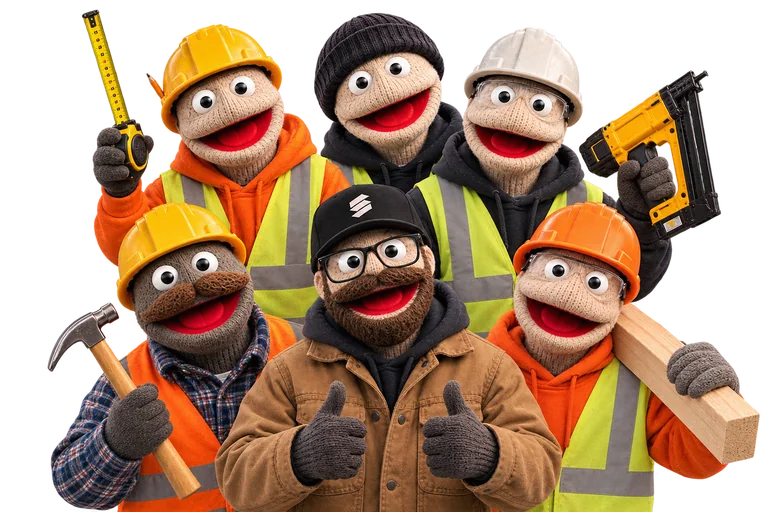
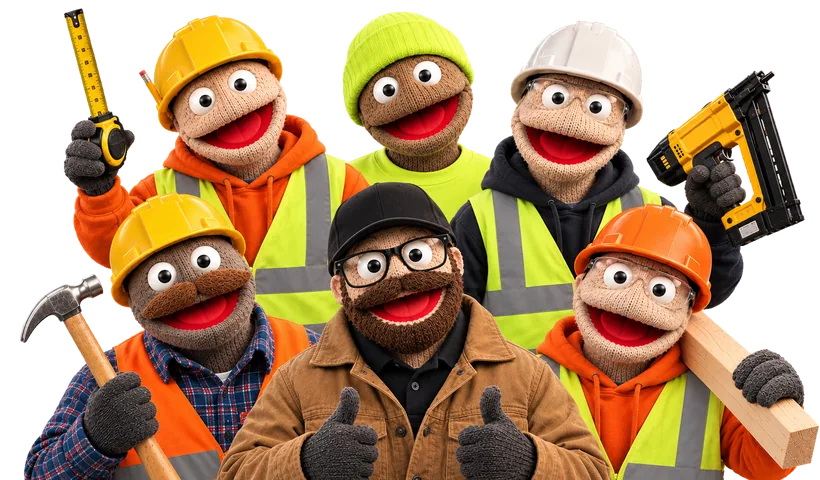
Hero: the new six-puppet crew, cut out of its baked-in checkerboard
The supplied picture was RGB with the transparency grid drawn in. It is
flood-filled out from the edges, feathered, and written at 1639 and 820
wide as PNG and WebP with real alpha. At 1.71:1 it sits centred on the
copy rather than top-aligned, and test:hero asserts the balance.

Claude-Session: https://claude.ai/code/session_013wThkdHg3dpYw5rapFbfFP

diff --git a/index.html b/index.html
@@ -427,23 +427,18 @@ body.nav-open{overflow:hidden}
      with no card around it. The mask feathers the bottom edge, where the
      photograph stops mid-torso -- without it the hero ends in a hard
      horizontal line across six chests. */
-  /* TOP-ALIGNED WITH THE COPY, which reverses the earlier decision and is
-     worth saying so. It used to be bottom-aligned with a -62px overrun into
-     the section's padding, so the crew "stood in" the hero. That was written
-     for a 1.75-aspect picture; the one here is 1.50, so at the same width it
-     is taller and the old alignment dropped it a long way down the hero --
-     starting 176px below the headline and finishing 114px above the last line
-     of copy, which reads as a separate thing floating beside the text rather
-     than the other half of the same block.
-     So the crew now starts level with the h1 and runs to within 40px of the
-     fine print: even with the copy, top and bottom.
-     The width is what makes that possible. A 1.50 picture as tall as a 500px
-     column of copy needs ~750px, which is more than the column holds -- hence
-     the wider grid share AND the overrun, and hence overflow-x above. The left
-     edge may sit a little inside the widest line of text because the cutout
-     carries ~6% transparent margin of its own, so the nearest puppet is still
-     clear of the words. */
-  .hero-crew{align-self:start}
+  /* CENTRED ON THE COPY, and the alignment follows the picture's shape.
+     It was bottom-aligned for a 1.75-aspect picture, then top-aligned for a
+     1.50 one, which was tall enough to run from the h1 to within 40px of the
+     fine print. The six-puppet picture now here is 1.71 -- wider for its
+     height -- so top-aligned it finished ~100px above the copy, the
+     floating-beside-the-text look the last swap was fixed for. Centred splits
+     that gap evenly above and below, so the two still read as one block.
+     The width share and the overrun stay: they are what make it as tall as it
+     is, and overflow-x above clips the spill. This cutout runs nearly to its
+     own left edge, so the box sits a little inside the widest line of text;
+     centring is also what keeps the hammer below the headline. */
+  .hero-crew{align-self:center}
   .hero-crew img{display:block;width:125%;max-width:none;margin-left:-13%;height:auto;
     -webkit-mask-image:linear-gradient(to bottom,#000 84%,transparent 100%);
             mask-image:linear-gradient(to bottom,#000 84%,transparent 100%)}
@@ -598,10 +593,10 @@ body.nav-open{overflow:hidden}
 
       <div class="hero-crew">
         <picture>
-          <source type="image/webp" srcset="hero-crew.webp 768w, hero-crew@2x.webp 1535w"
+          <source type="image/webp" srcset="hero-crew.webp 820w, hero-crew@2x.webp 1639w"
             sizes="(max-width:900px) 92vw, 46vw">
-          <img src="hero-crew.png" srcset="hero-crew.png 768w, hero-crew@2x.png 1535w"
-            sizes="(max-width:900px) 92vw, 46vw" width="768" height="512"
+          <img src="hero-crew.png" srcset="hero-crew.png 820w, hero-crew@2x.png 1639w"
+            sizes="(max-width:900px) 92vw, 46vw" width="820" height="480"
             alt="Six sock-puppet subcontractors in hard hats and hi-vis, grinning, holding a tape measure, a nail gun, a hammer and a length of timber, with one in front giving two thumbs up"
             fetchpriority="high" decoding="async">
         </picture>

diff --git a/CLAUDE.md b/CLAUDE.md
@@ -10486,6 +10486,33 @@ refactor.
   `standing.reasons` unguarded, so a stub with no `eligible` field threw there
   and read exactly like the switch vanishing.
 
+- **THE NEW CREW ARRIVED AS A PICTURE OF A CHECKERBOARD, AGAIN, AND WAS CUT
+  OUT RATHER THAN SHIPPED.** The replacement six puppets came as an **RGB** PNG
+  with the transparency grid drawn into it: white near 253, grey near 236,
+  irregular squares of about 12px. That is the exact failure the hero entry
+  above records and `test:hero` exists for, and swapping it in as supplied
+  fails three of its assertions -- which is the check that it still guards.
+
+  **Cut by flood fill from the edges through light, neutral pixels**, so the
+  white hard hat and the eye whites, which are enclosed by the puppets and not
+  connected to the border, are never reached. One enclosed pocket (behind the
+  nail gun's grip) was cleared because it carried both checker tones in
+  quantity, which a hat or an eye does not. The foreground is eroded by a pixel
+  and feathered, so no pale fringe survives on the forest green, and every edge
+  was looked at zoomed on that green before anything was written.
+
+  **The files follow the picture, not the old numbers**: 1639x960, so 2x is the
+  whole image and 1x is 820, and the srcset and width/height say so.
+
+  **And the alignment moved a third time, to centre**, because it follows the
+  picture's shape. At 1.71 this one is wider for its height than the 1.50 it
+  replaced, so top-aligned it finished ~100px above the copy. Centred splits
+  that gap above and below, and the test now asserts the BALANCE, because
+  either gap alone passes with the other alignment back in force: top- and
+  bottom-aligned each fail five assertions. The height bound loosened from 0.8
+  to 0.65 of the copy, for the 1024 reflow, and still catches the "a third of
+  it" case its own name describes.
+
 ## Working here
 
 - The app is `app/` (Vite + React, one large `App.tsx`), the API is
